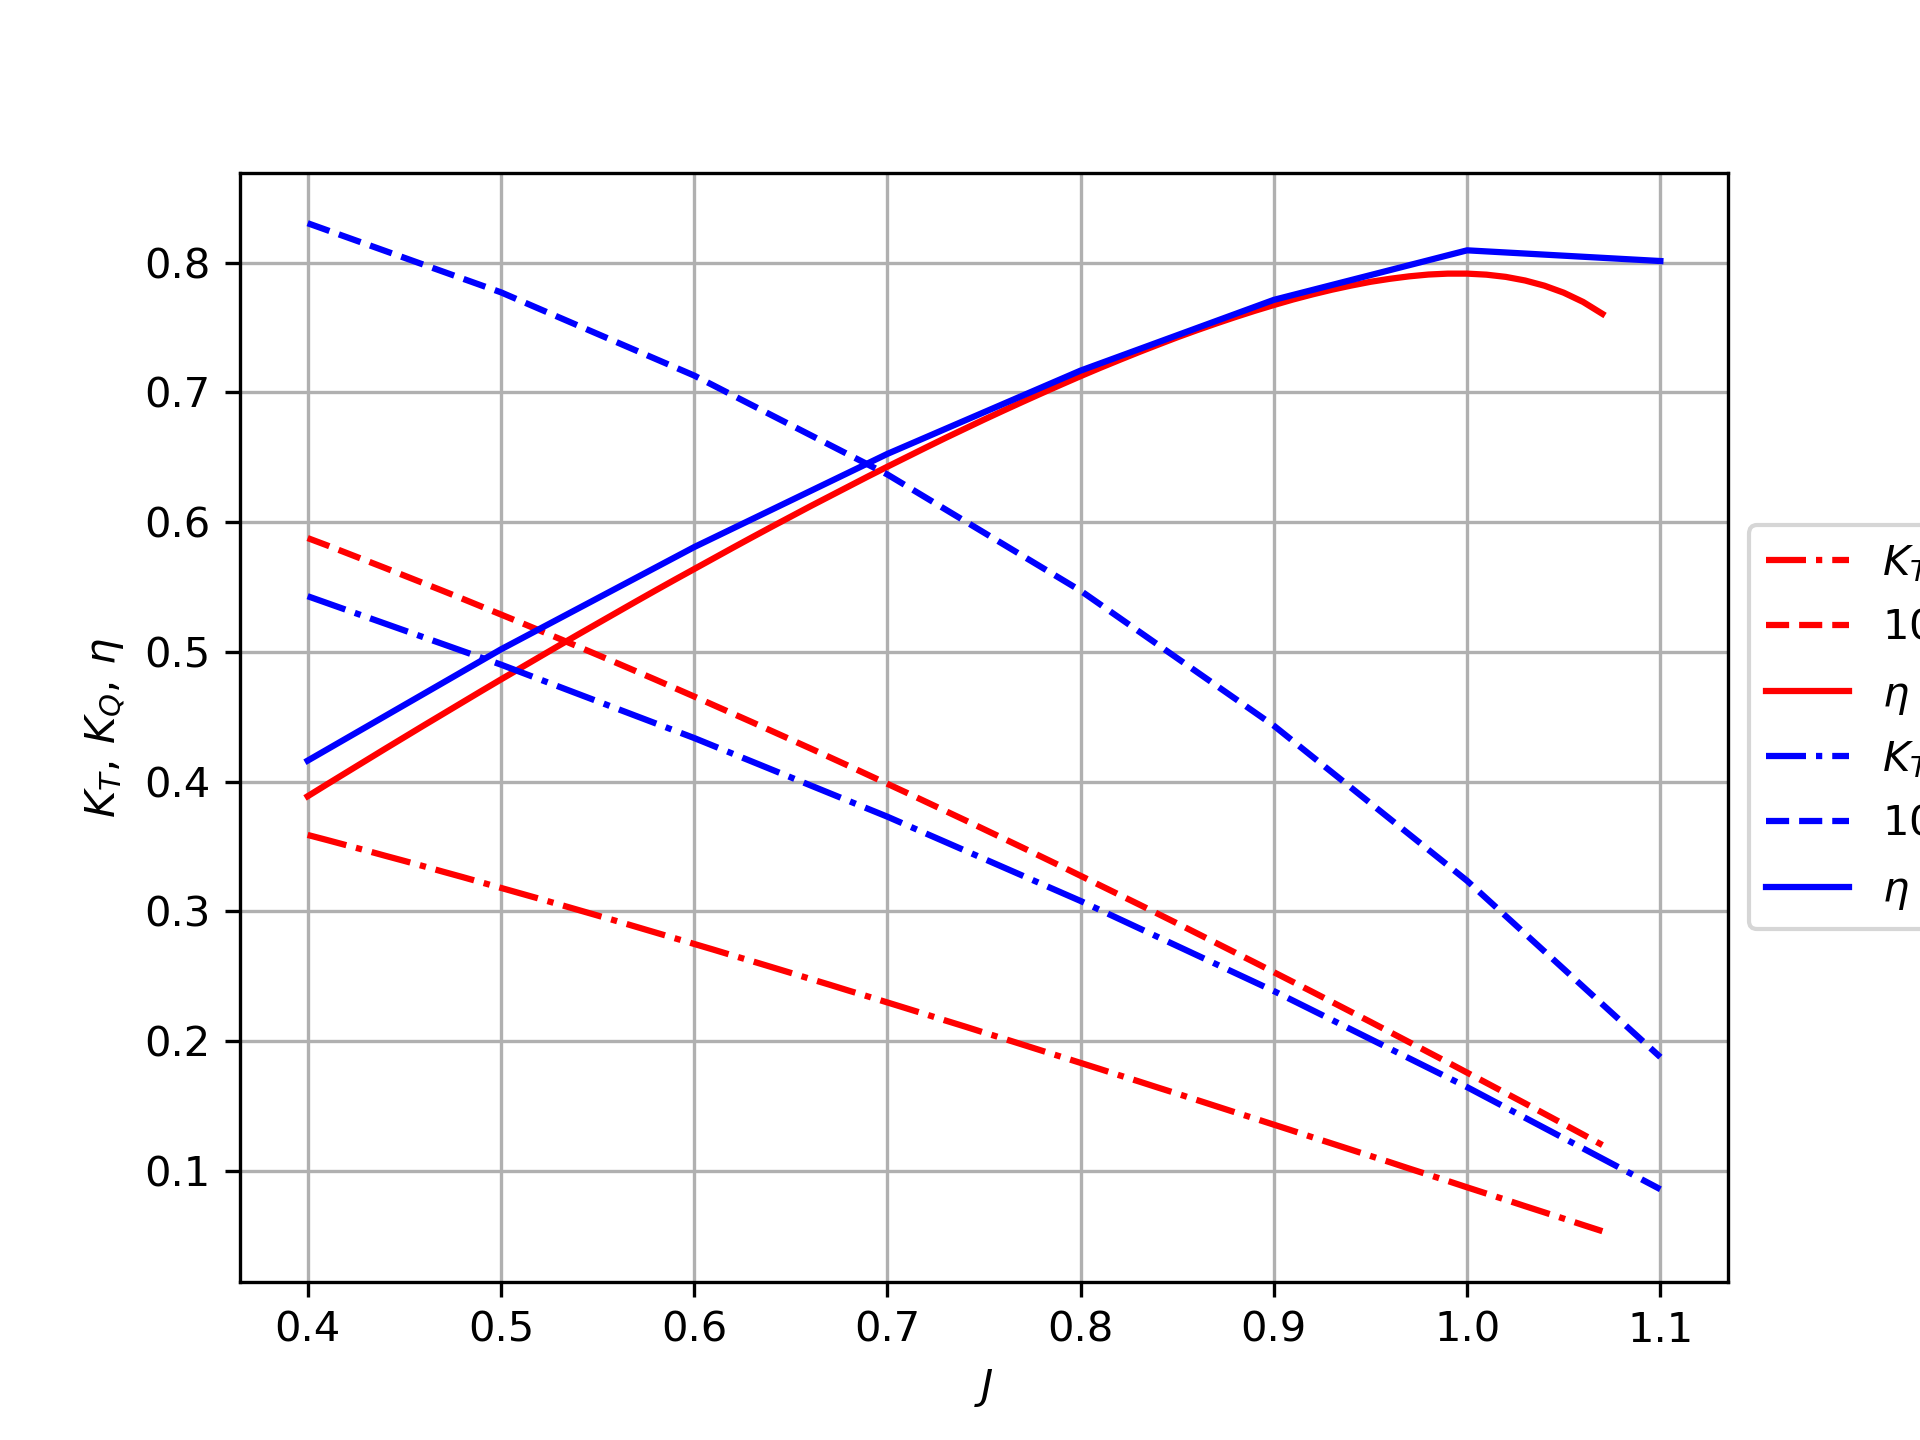
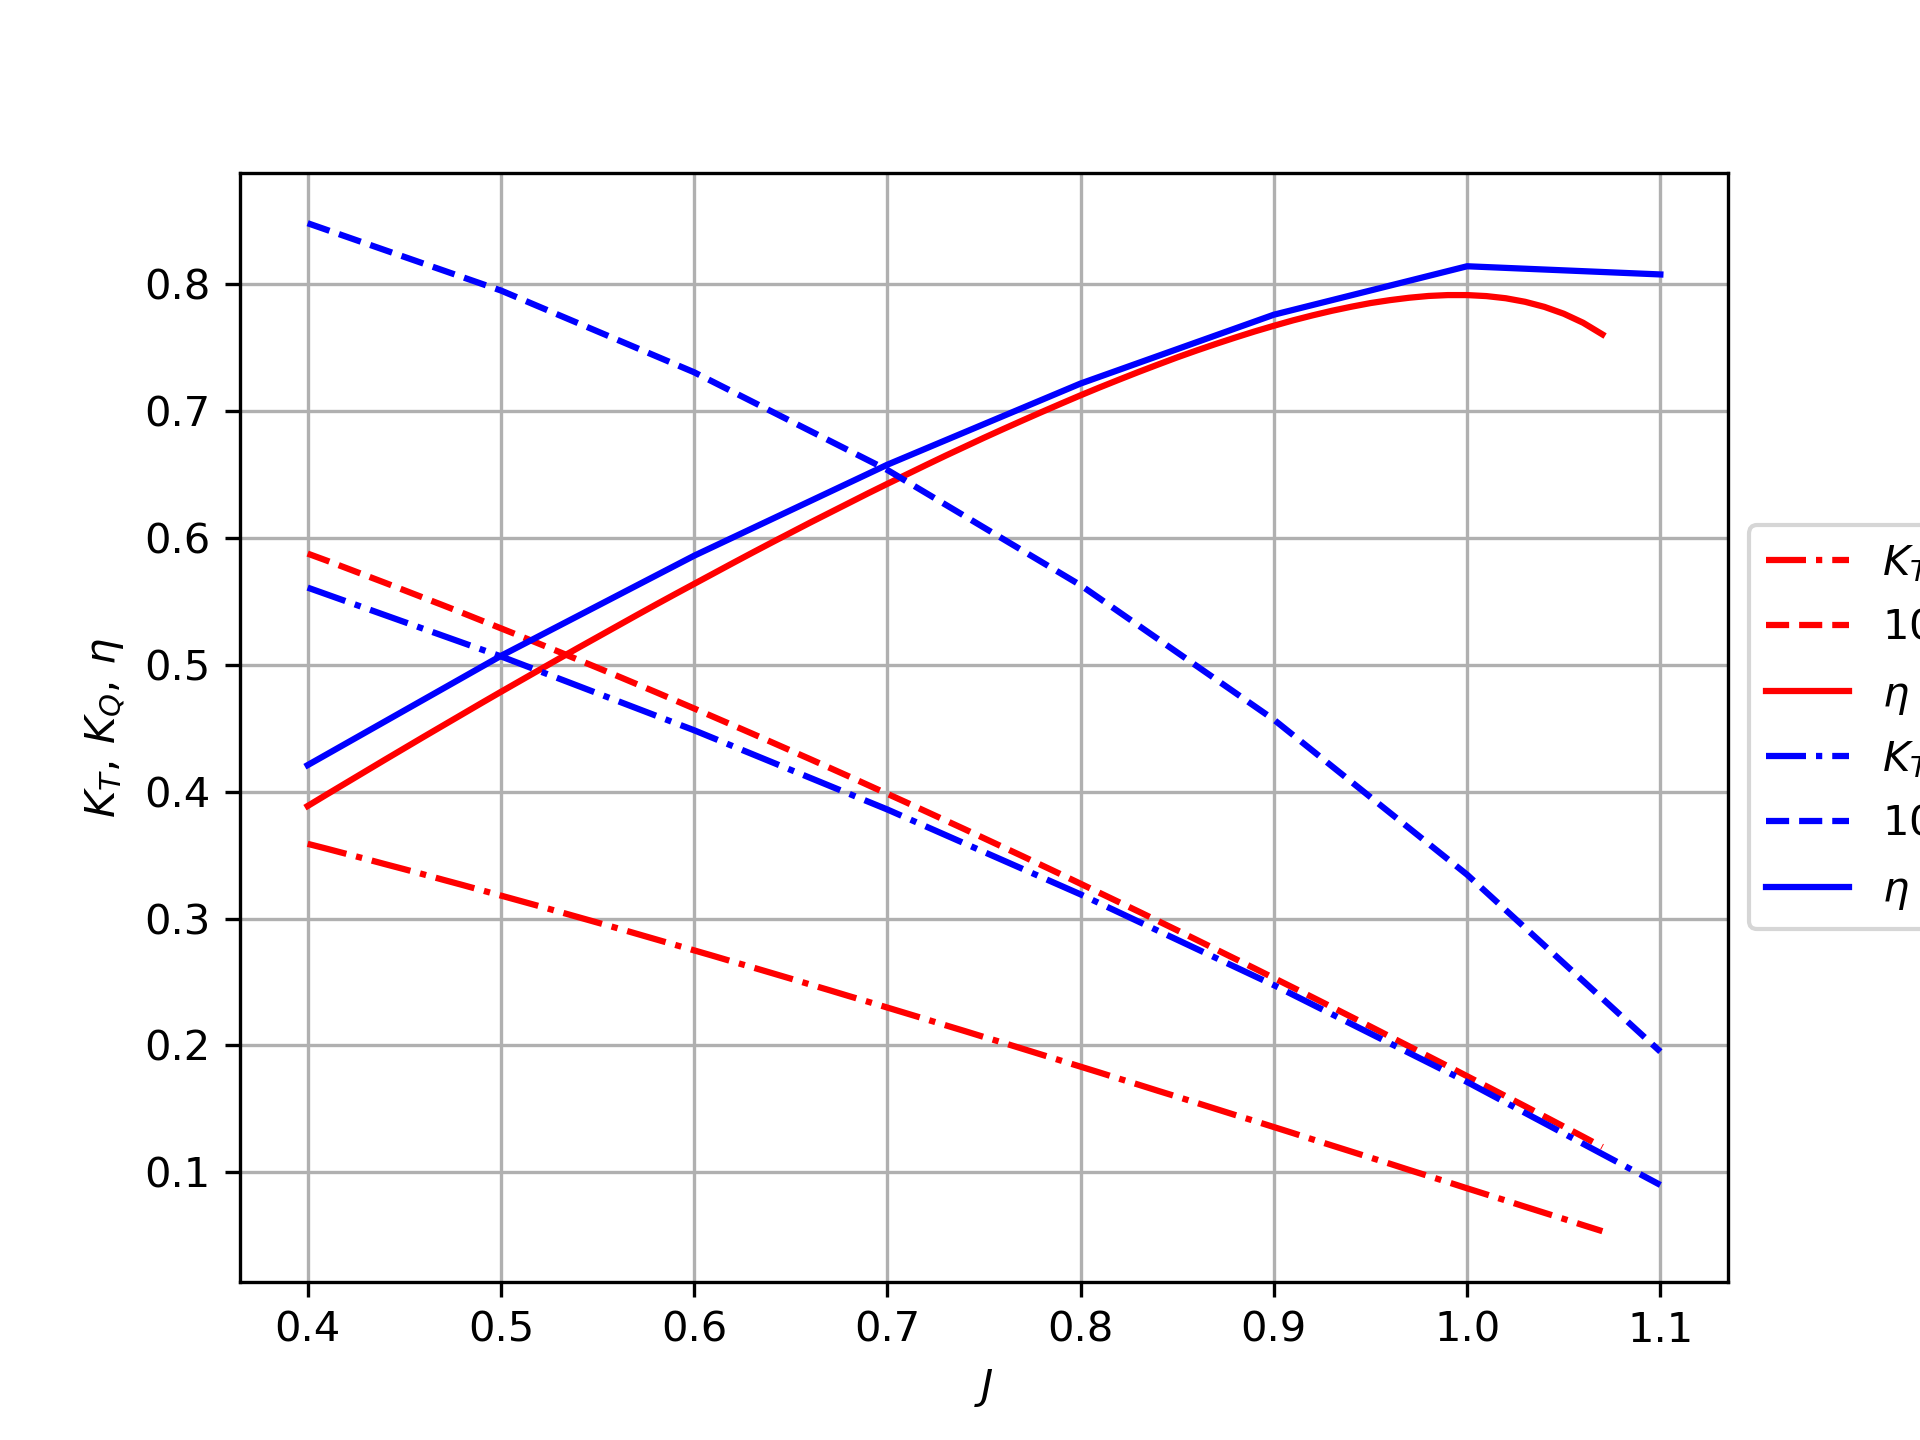
q4 not converging

diff --git a/lifting_line.py b/lifting_line.py
@@ -295,7 +295,10 @@ def q4():
     # iterations control varialbes
     max_it = 200
     tol = 1e-6
-    relax = 0.1
+    relax = 0.01
+    
+    # Span-wise discretisation (can be higher than the number of provided foil sections)
+    n_span = 20
     
     rn07, water, prop, j, cl_a = setup()
     
@@ -308,73 +311,132 @@ def q4():
     for i in range(len(j)):
         k = 0
         rel_diff = 1.
-        ut = np.zeros(len(prop.geo.r_R)-1)
-        ua = np.zeros(len(prop.geo.r_R)-1)
+        ut_2 = np.zeros(n_span)
+        ua_2 = np.zeros(n_span)
         
-        gamma = np.ones(len(prop.geo.r_R)-1)*0.1
-        gamma[0] = 0.
-        gamma_new = np.zeros(len(prop.geo.r_R)-1)
-        cl = np.zeros(len(prop.geo.r_R)-1)
+        # _2 indicates that the discretisation is the one controlled by n_span and not the provided geometry
+        gamma_2 = np.ones(n_span)*0.1
+        gamma_2[0] = 0.
+        gamma_new_2 = np.zeros(n_span)
+        cl = np.zeros(len(prop.geo.r_R))    # To ensure proper gamma at the tip, see later
+        cl_2 = np.zeros(n_span)
         cd = np.zeros(len(prop.geo.r_R)-1)
-        dT = np.zeros(len(prop.geo.r_R)-1)
-        dQ = np.zeros(len(prop.geo.r_R)-1)
+        dT_2 = np.zeros(n_span)
+        dQ_2 = np.zeros(n_span)
+        beta = np.zeros(len(prop.geo.r_R)-1)
+        beta_2 = np.zeros(n_span)
+        r_2 = np.linspace(prop.geo.r_R[0]*prop.char.d/2., prop.geo.r_R[-1]*prop.char.d/2., n_span)
+        beta_2[:] = np.arctan(v[i]/(2*pi*r_2*n[i]))
         
         while k < max_it and rel_diff > tol:
-            # Induced velocities
-            ut = gamma/(pi*prop.geo.r_R[:-1]*prop.char.d)
-            delta = v[i]**2 + ut*(2.*pi*n[i]*prop.geo.r_R[:-1]*prop.char.d-ut)
-            ua = -v[i]+np.sqrt(delta)
-            
             # Lift from hydrodynamic pitch angle
             for section in range(len(prop.geo.r_R)-1):
-                if ut[section] == 0.:
-                    ua[section] = 0.1
-                beta = np.arctan(ut[section]/ua[section])
-                aoa_ = aoa(beta, prop, section)
+                aoa_ = aoa(beta[section], prop, section)
                 cl[section] = cl_from_xfoil(aoa_, cl_a, section)
-            v_inf = np.sqrt((v[i] + ua/2.)**2 + (prop.geo.r_R[:-1]*prop.char.d*pi*n[i] - ut/2.)**2)
-            # Drag from ittc correlation
-            for section in range(len(prop.geo.r_R)-1):
-                cd[section] = cd_ittc(v_inf[section], prop, water, section)
+            cl[-1] = 0.     # Ensures proper gamma at the tip
+            print('cl ', cl)
+            cl_2 = np.interp(r_2, prop.geo.r_R[:]*prop.char.d/2., cl)
+            v_inf_2 = np.sqrt((v[i] + ua_2/2.)**2 + (2*r_2*pi*n[i] - ut_2/2.)**2)
             
             # Gamma update, under relaxation to improve convergence
-            gamma_new = cl*v_inf*prop.geo.c_d[:-1]*prop.char.d/(2./prop.char.z)
+            c_2 = np.interp(r_2, prop.geo.r_R*prop.char.d/2., prop.geo.c_d*prop.char.d)
+            gamma_new_2 = cl_2*v_inf_2*c_2/(2./prop.char.z)
             if k == 0:
                 rel_diff = 1.
             else:
-                rel_diff = np.linalg.norm(gamma_new - gamma) / np.mean(gamma)
-            gamma = gamma*(1-relax) + gamma_new*relax
+                rel_diff = np.linalg.norm(gamma_new_2 - gamma_2) / np.mean(gamma_2)
+            gamma_2 = gamma_2*(1-relax) + gamma_new_2*relax
             
+            # Derivative of Gamma according to r
+            dg_dr_2 = np.zeros(n_span)
+            dg_dr_2[0] = (gamma_2[1] - gamma_2[0])/(r_2[1] - r_2[0])
+            dg_dr_2[-1] = (gamma_2[-1] - gamma_2[-2])/(r_2[-1] - r_2[-2])
+            for l in range(1, n_span-1):
+                dg_dr_2[l] = (gamma_2[l+1] - gamma_2[l-1])/(r_2[l+1] - r_2[l-1])
+            
+            ia_2 = np.zeros(n_span)
+            it_2 = np.zeros(n_span)
+            for l in range(1,n_span-1):
+                # Induction factors
+                for m in range(n_span):
+                    ia_2[m], it_2[m] = inductionFactors(r_2[m], r_2[l], beta_2[l], prop.char.z)
+                ua_2[l] = 0.5*singularIntegration(r_2, dg_dr_2*ia_2, r_2[l])*v[i]
+                ut_2[l] = 0.5*singularIntegration(r_2, dg_dr_2*it_2, r_2[l])*v[i]
+            print('nan in ut ua', np.sum(np.isnan(ut_2)), np.sum(np.isnan(ua_2)))
+            if np.sum(np.isnan(ut_2)) > 0:
+                exit()
+            ua_2[0] = 0.1
+            ua_2[-1] = 0.1
+            ut_2[0] = 0.
+            ut_2[-1] = 0.
+            
+            # Hydrodynamic pitch angle
+            print('ut ua ', ut_2, ua_2)
+            beta_2 = np.arctan(ut_2/ua_2)
+            beta_2[0] = np.arctan(v[i]/(2*pi*r_2[0]*n[i]))
+            beta_2[-1] = np.arctan(v[i]/(2*pi*r_2[-1]*n[i]))
+            beta = np.interp(prop.geo.r_R[:-1]*prop.char.d/2., r_2, beta_2)
             k += 1
-            
-            if k % 10 == 0:
+            print('beta ', beta_2)
+            if k % 1 == 0:
                 print(k, rel_diff)
+                print('ooooooooooo')
+        
         print(k, rel_diff)
         
-        # Computation of cl and cd for the last gamma
-        ut = gamma/(pi*prop.geo.r_R[:-1]*prop.char.d)
-        delta = v[i]**2 + ut*(2.*pi*n[i]*prop.geo.r_R[:-1]*prop.char.d-ut)
-        ua = -v[i]+np.sqrt(delta)
-        beta = np.arctan(ut/ua)
+        # Derivative of Gamma according to r
+        dg_dr_2 = np.zeros(n_span)
+        dg_dr_2[0] = (gamma_2[1] - gamma_2[0])/(r_2[1] - r_2[0])
+        dg_dr_2[-1] = (gamma_2[-1] - gamma_2[-2])/(r_2[-1] - r_2[-2])
+        for l in range(1, n_span-1):
+            dg_dr_2[l] = (gamma_2[l+1] - gamma_2[l-1])/(r_2[l+1] - r_2[l-1])
+        
+        ia_2 = np.zeros(n_span)
+        it_2 = np.zeros(n_span)
+        
+        for l in range(n_span-1):
+            # Induction factors
+            for m in range(n_span):
+                ia_2[m], it_2[m] = inductionFactors(r_2[m], r_2[l], beta_2[l], prop.char.z)
+            ua_2[l] = 0.5*singularIntegration(r_2, dg_dr_2*ia_2, r_2[l])*v[i]
+            ut_2[l] = 0.5*singularIntegration(r_2, dg_dr_2*it_2, r_2[l])*v[i]
+        ua_2[0] = 0.1
+        ua_2[-1] = 0.1
+        ut_2[0] = 0.
+        ut_2[-1] = 0.
+        
+        # Hydrodynamic pitch angle
+        beta_2 = np.arctan(ut_2/ua_2)
+        beta = np.interp(prop.geo.r_R[:-1]*prop.char.d/2., r_2, beta_2)
+        ut = np.interp(prop.geo.r_R[:-1]*prop.char.d/2., r_2, ut_2)
+        ua = np.interp(prop.geo.r_R[:-1]*prop.char.d/2., r_2, ut_2)
+        
         for section in range(len(prop.geo.r_R)-1):
-            if ut[section] == 0.:
-                ua[section] = 0.1
             aoa_ = aoa(beta[section], prop, section)
             cl[section] = cl_from_xfoil(aoa_, cl_a, section)
+        cl[-1] = 0.
         v_inf = np.sqrt((v[i] + ua/2.)**2 + (prop.geo.r_R[:-1]*prop.char.d*pi*n[i] - ut/2.)**2)
+        cl_2 = np.interp(r_2, prop.geo.r_R[:]*prop.char.d/2., cl)
+        v_inf_2 = np.sqrt((v[i] + ua_2/2.)**2 + (2*r_2*pi*n[i] - ut_2/2.)**2)
         for section in range(len(prop.geo.r_R)-1):
             cd[section] = cd_ittc(v_inf[section], prop, water, section)
-        dr = np.array([dr_section(prop, section) for section in range(len(prop.geo.r_R)-1)])
+        cd_2 = np.interp(r_2, prop.geo.r_R[:-1]*prop.char.d/2., cd)
+        dr_2 = np.zeros(n_span)
+        dr_2[0] = (r_2[1] - r_2[0])/2.
+        dr_2[-1] = (r_2[-1] - r_2[-2])/2.
+        for l in range(1, n_span-1):
+            dr_2 = (r_2[l+1] - r_2[l-1])/2.
         
+        c = np.interp(r_2, prop.geo.r_R*prop.char.d/2., prop.geo.c_d*prop.char.d)
         # Drag and lift
-        dD = water.density/2.*v_inf**2*cd*prop.geo.c_d[:-1]*prop.char.d*dr
-        dL = water.density/2.*v_inf**2*cl*prop.geo.c_d[:-1]*prop.char.d*dr
+        dD_2 = water.density/2.*v_inf_2**2*cd_2*c*dr_2
+        dL_2 = water.density/2.*v_inf_2**2*cl_2*c*dr_2
         
         # Thrust abd torque
-        dT[:] = dL*np.cos(beta) - dD*np.sin(beta)
-        dQ[:] = prop.geo.r_R[:-1]*prop.char.d*(dL*np.sin(beta) + dD*np.cos(beta))/2.
-        T[i] += dT.sum()
-        Q[i] += dQ.sum()
+        dT_2[:] = dL_2*np.cos(beta_2) - dD_2*np.sin(beta_2)
+        dQ_2[:] = r_2*(dL_2*np.sin(beta_2) + dD_2*np.cos(beta_2))/2.
+        T[i] += dT_2.sum()
+        Q[i] += dQ_2.sum()
         
         print("----------")
     

diff --git a/InductionFactors.py b/InductionFactors.py
@@ -15,6 +15,7 @@ def inductionFactors(r, r0, beta_i, Z):
 		i_T = np.sin(beta_i)
 	else:
 		p = 1+(x_x0**2/np.tan(beta_i)**2)
+		#print((p**0.5-1)*(1/np.sin(beta_i)-1)**(-1)*x0_x)
 		u = np.exp(Z*(np.log((p**0.5-1)*(1/np.sin(beta_i)-1)**(-1)*x0_x)+p**0.5-1/np.sin(beta_i)))    
 		g = (np.sin(beta_i))**3*(2+9/(np.tan(beta_i)**2))+(3*p-5)*p**(-3/2)
 		f = np.sin(beta_i)**(-0.5)*p**(-0.25)
